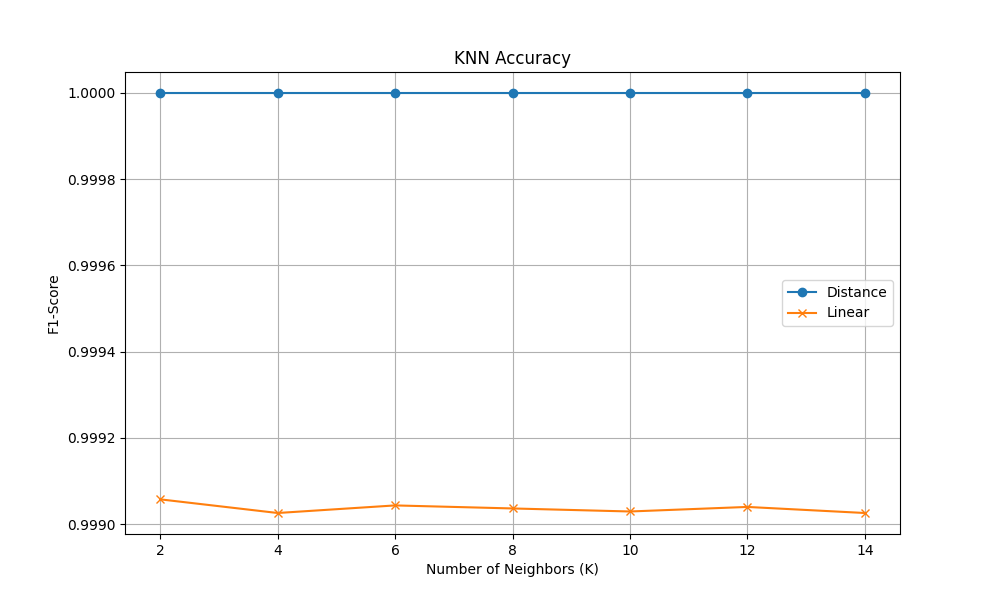
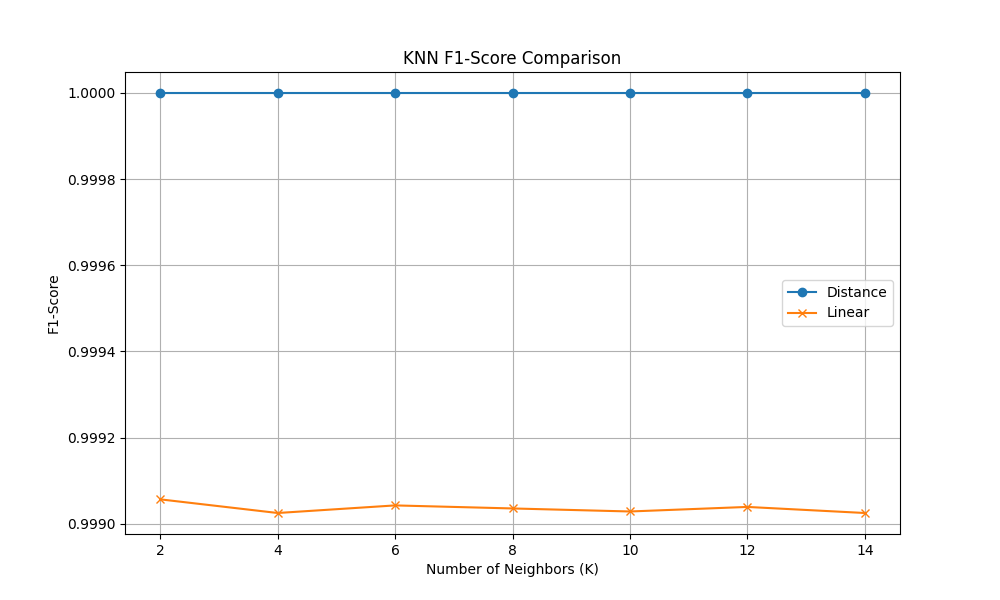
bho

Changed region(s): [[0.124, 0.57, 0.899, 0.6], [0.403, 0.09, 0.62, 0.12], [0.062, 0.87, 0.124, 0.9]]

diff --git a/DecisionTree/DT_random_search_graph.py b/DecisionTree/DT_random_search_graph.py
@@ -1,0 +1,49 @@
+from joblib import load 
+import pandas 
+import numpy as np
+import matplotlib.pyplot as plt
+import os
+
+local_path = os.path.dirname(__file__)
+
+
+random_search = load(f'{local_path}/DT_random_search.joblib')
+results = random_search.cv_results_
+
+df_results = pandas.DataFrame(results['params'])
+df_score = pandas.DataFrame(results['mean_test_score'])
+df_score.columns=['mean_test_score']
+
+
+df_results['mean_test_score'] = results['mean_test_score']
+
+
+def plot_f1_vs_hyperparameters(df, hyperparameters, score_col='mean_test_score'):
+    num_plots = len(hyperparameters)
+    fig, axes = plt.subplots(nrows=2, ncols=3, figsize=(18, 12))  # 2x3 grid for 6 hyperparameters
+    axes = axes.flatten()  # Flatten the 2D array of axes for easy iteration
+    
+    for i, param in enumerate(hyperparameters):
+        ax = axes[i]
+        if df[param].dtype == object or isinstance(df[param].iloc[0], tuple):
+            # Handle categorical or tuple-based parameters
+            param_values = df[param].astype(str).unique()  # Convert to string for uniformity
+            param_means = df.groupby(param)[score_col].mean()
+            ax.bar(param_values, param_means, color='skyblue')
+            ax.set_xticks(range(len(param_values)))
+            ax.set_xticklabels(param_values, rotation=45)
+        else:
+            # Handle numeric parameterscore
+            ax.scatter(df[param], df_score, color='skyblue')
+        ax.set_xlabel(param)
+        ax.set_ylabel('F1 Score')
+        ax.set_title(f'F1 Score vs {param}')
+    
+    plt.tight_layout()
+    plt.show()
+
+# List of hyperparameters to plot
+hyperparameters = ['criterion', 'splitter', 'max_depth', 'min_samples_split', 'min_samples_leaf']
+
+# Plot F1-score vs hyperparameters
+plot_f1_vs_hyperparameters(df_results, hyperparameters)

diff --git a/KNN/KNN_testing.py b/KNN/KNN_testing.py
@@ -17,17 +17,6 @@ def sampleDataset(dataframe, frac):
       ]
 )
 
-
-path="."
-n_neighbors = 10
-
-data_full = pandas.read_csv(path+'\creditcard_2023.csv')
-data_full = data_full.dropna(subset=['Class'])
-
-
-
-data = sampleDataset(data_full, .5)
-
 def compareModels(features, target, n_neighbors, weights, verbose=False):
   results = []
   i = 0
@@ -41,8 +30,6 @@ def compareModels(features, target, n_neighbors, weights, verbose=False):
       model.fit(features, target)
       target_pred = model.predict(features)
 
-      #Cut ROC-AUC metrics because it was too intensive and it didn't give any significant results (it was 1.0 for pretty much every model)
-      #prob_pred = model.predict_proba(features)[:, 1]
       results.append(
           {
               "Neighbors" : nn,
@@ -61,10 +48,17 @@ def compareModels(features, target, n_neighbors, weights, verbose=False):
   return pandas.DataFrame(results)
 
 
+path="."
+
+data_full = pandas.read_csv(path+'\creditcard_2023.csv')
+data_full = data_full.dropna(subset=['Class'])
+
+data = sampleDataset(data_full, .5)
+
+
 n_neighbors = [k for k in range(2, 16, 2)]
 weights = ['uniform', 'distance']
 
-data = sampleDataset(data_full, .50)
 features = data.drop('Class', axis=1)
 target = data['Class']
 

diff --git a/DecisionTree/DT.py b/DecisionTree/DT.py
@@ -4,12 +4,16 @@ from sklearn.model_selection import train_test_split
 from sklearn.tree import DecisionTreeClassifier
 from joblib import load, dump
 from sklearnex import patch_sklearn
+import os
 
 patch_sklearn()
 
 
-path = "./"
-data = pandas.read_csv(path+'creditcard_2023.csv')
+
+local_path = os.path.dirname(__file__)
+patch_sklearn()
+
+data = pandas.read_csv(local_path + '/creditcard_2023.csv')
 data = data.dropna(subset=['Class'])
 
 X = data.drop(columns='Class', axis=1)
@@ -18,11 +22,11 @@ Y = data['Class']
 X_train, X_test, Y_train, Y_test = train_test_split(X, Y,  test_size=0.2, stratify=Y, random_state=1)
 
 
-random_search = load('DT_random_search.joblib')
+random_search = load(f'{local_path}/DT_random_search.joblib')
 
 params = random_search.best_params_
-decision_tree = DecisionTreeClassifier(**params, random_state=1, verbose=True)
+decision_tree = DecisionTreeClassifier(**params, random_state=1)
 
 decision_tree.fit(X_train, Y_train)
 
-dump(decision_tree, 'DT_model.joblib')
+dump(decision_tree, 'DT_trained.joblib')

diff --git a/KNN/KNN_graphs.py b/KNN/KNN_graphs.py
@@ -2,8 +2,12 @@ from joblib import load
 import pandas 
 import numpy as np
 import matplotlib.pyplot as plt
+import os
 
-results = load('KNN_results.joblib')
+local_path = os.path.dirname(__file__)
+
+
+results = load(f'{local_path}/KNN_results.joblib')
 print(results)
 
 distance = results.loc[results['Weights'] == 'distance'].sort_values('Neighbors')
@@ -13,14 +17,14 @@ uniform = results.loc[results['Weights'] == 'uniform'].sort_values('Neighbors')
 plt.figure(figsize=(10, 6))
 plt.plot(
     distance["Neighbors"],
-    distance["Accuracy"],
+    distance["F1-Score"],
     marker='o',
     label="Distance"
   )
 
 plt.plot(
     uniform["Neighbors"],
-    uniform["Accuracy"],
+    uniform["F1-Score"],
     marker='x',
     label="Linear"
   )
@@ -28,7 +32,7 @@ plt.plot(
 plt.xlabel("Number of Neighbors (K)")
 plt.ylabel("F1-Score")
 
-plt.title("KNN Accuracy")
+plt.title("KNN F1-Score Comparison")
 plt.legend()
 plt.grid()
 plt.show()

diff --git a/KNN/KNN_model.py b/KNN/KNN_model.py
@@ -4,8 +4,24 @@ from sklearn.neighbors import KNeighborsClassifier
 from joblib import dump, load
 from sklearn.metrics import  precision_score, accuracy_score, recall_score, f1_score
 from sklearnex import patch_sklearn
+import os
+
+local_path = os.path.dirname(__file__)
 
 patch_sklearn()
 
-params = load('KNN_results.joblib')
-print(params)
+res = load(f'{local_path}/KNN_results.joblib')
+
+#min_idx_neigh = res.loc[res['Neighbors'].idxmin()]
+max_idx_f1 = res.loc[res['F1-Score'].idxmax()]
+
+
+
+best_par = pandas.DataFrame([max_idx_f1]).drop_duplicates()
+
+knn = KNeighborsClassifier(
+    n_neighbors= best_par['Neighbors'],
+    weights=best_par['Weights'],
+)
+
+dump(knn, 'KNN_model.joblib')

diff --git a/comparison_graph.py b/comparison_graph.py
@@ -1,0 +1,20 @@
+from joblib import load
+from sklearn.model_selection import train_test_split
+from sklearn.neighbors import KNeighborsClassifier
+import pandas 
+
+knn_params = load('./KNN/KNN_results.joblib')
+mlp = load('./MultiLayerPerceptron/MLP_trained.joblib')
+#dt = load('./DecisionTree/DT_trained.joblib')
+
+path="."
+
+dataset = pandas.read_csv(path+'\creditcard_2023.csv')
+dataset = dataset.dropna(subset=['Class'])
+
+
+X = dataset.drop(columns='Class', axis=1)
+Y = dataset['Class']
+
+X_train, X_test, Y_train, Y_test = train_test_split(X, Y,  test_size=0.2, stratify=Y, random_state=1)
+
